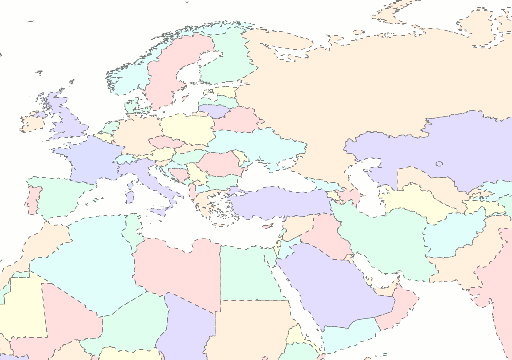
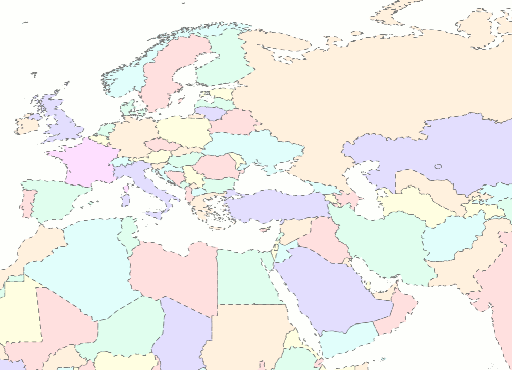
Changed Colors 6 and 7 in YSLD tutorial to be more distinct

diff --git a/docs/usermanual/source/cartography/ysld/tutorial/polygon.rst b/docs/usermanual/source/cartography/ysld/tutorial/polygon.rst
@@ -113,7 +113,7 @@ Suppose we wish to display different colors for each country. The countries laye
       * - ``MAPCOLOR7 = 6``
         - ``fill-color: '#C3C3FF'``
       * - ``MAPCOLOR7 = 7``
-        - ``fill-color: '#BFC3FF'``
+        - ``fill-color: '#FFC3FF'``
 
 #. After adding the filters, the style will look like:
    
@@ -180,7 +180,7 @@ Suppose we wish to display different colors for each country. The countries laye
                stroke-color: '#777777'
                stroke-dasharray: '4 4'
                stroke-width: 0.5
-               fill-color: '#BFC3FF'
+               fill-color: '#FFC3FF'
                fill-opacity: 0.5
 
    .. figure:: img/poly_color.png
@@ -220,7 +220,7 @@ While filters are very useful, the required syntax is quite long, and much of th
                fill-color: ${
                    recode(MAPCOLOR7,
                      1, '#FFC3C3', 2, '#FFE3C3', 3, '#FFFFC3', 4, '#C3FFE3',
-                     5, '#C3FFFF', 6, '#C3C3FF', 7, '#BFC3FF')
+                     5, '#C3FFFF', 6, '#C3C3FF', 7, '#FFC3FF')
                  }
                fill-opacity: 0.5
 
@@ -245,7 +245,7 @@ While filters are very useful, the required syntax is quite long, and much of th
                fill-color: ${
                    recode(MAPCOLOR7,
                      1, '#FFC3C3', 2, '#FFE3C3', 3, '#FFFFC3', 4, '#C3FFE3',
-                     5, '#C3FFFF', 6, '#C3C3FF', 7, '#BFC3FF')
+                     5, '#C3FFFF', 6, '#C3C3FF', 7, '#FFC3FF')
                  }
                fill-opacity: 0.5
 
@@ -275,7 +275,7 @@ Labels can be applied to any layer using a :ref:`text symbolizer <cartography.ys
                fill-color: ${
                    recode(MAPCOLOR7,
                      1, '#FFC3C3', 2, '#FFE3C3', 3, '#FFFFC3', 4, '#C3FFE3',
-                     5, '#C3FFFF', 6, '#C3C3FF', 7, '#BFC3FF')
+                     5, '#C3FFFF', 6, '#C3C3FF', 7, '#FFC3FF')
                  }
                fill-opacity: 0.5
            - text:
